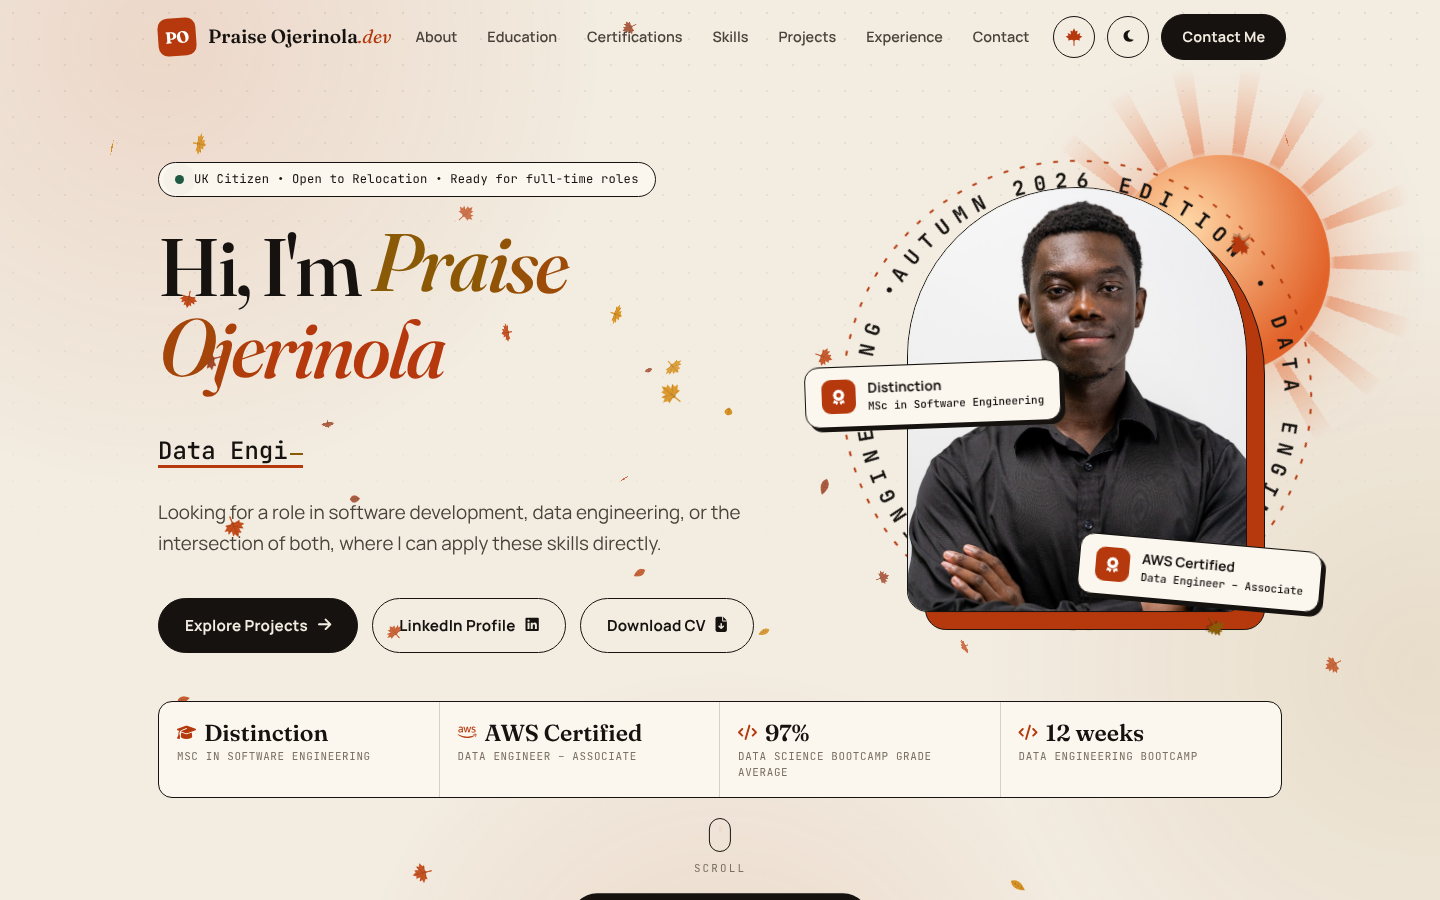
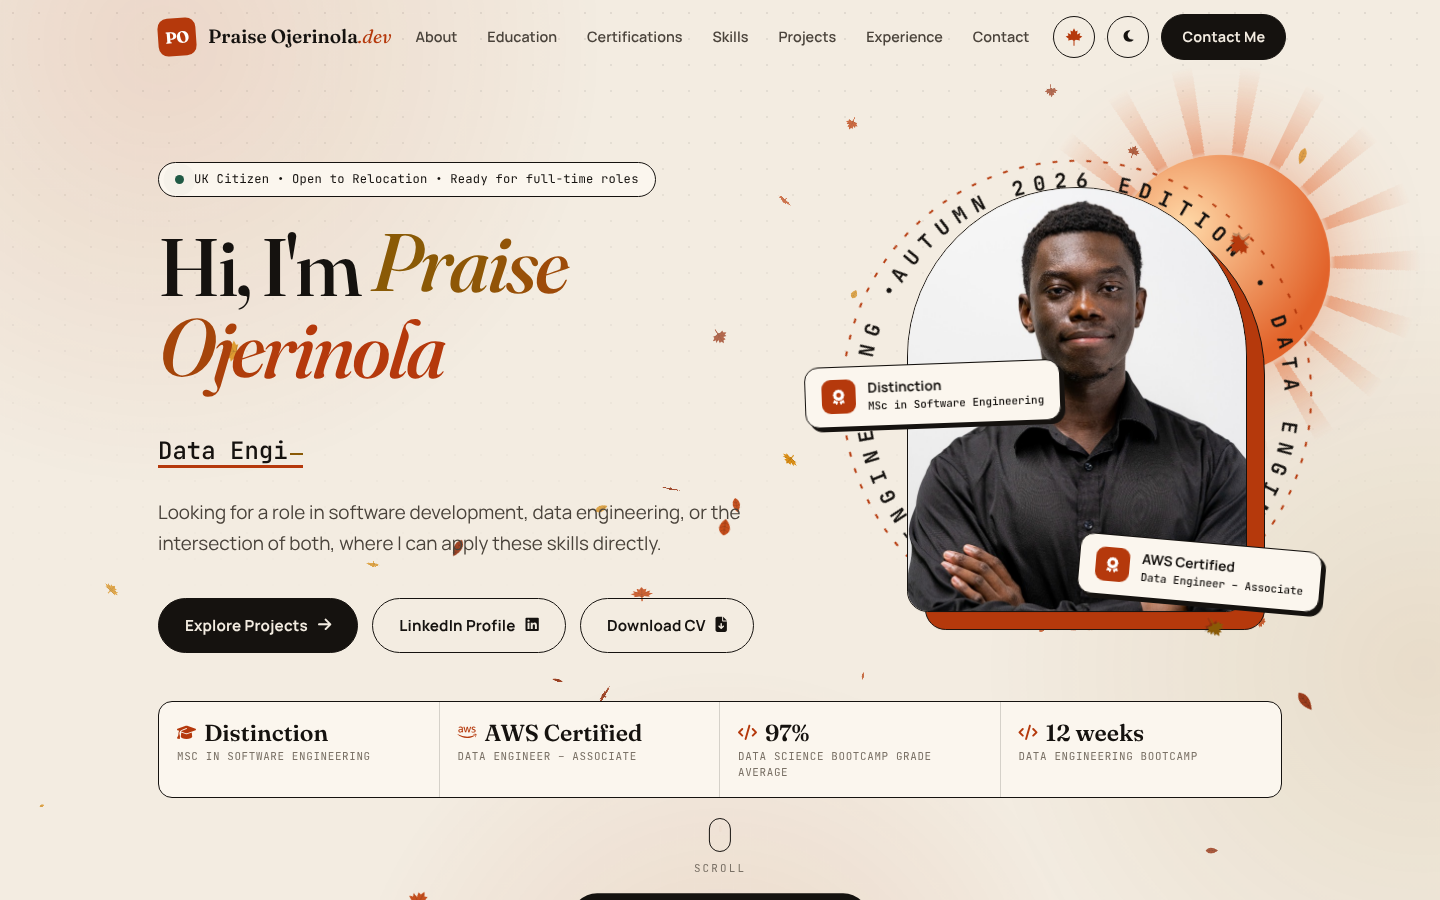
Rework spring, summer and winter to match autumn
Autumn worked because everything came from one colour family and its
leaves were big enough to read. The other seasons mixed unrelated hues
(pink with green, teal with gold), so the shimmer in the name passed
through muddy olive, and their particles were specks on light paper.

- Spring: rose to orchid, whole five-petal cherry blossoms spinning among
  the petals, petals edged so they show on light paper, a blush dawn sun
  with a breathing halo
- Summer: one sunshine-gold family on lemon paper, a blazing sun with fast
  pulsing rays, a sun-gold arch and tape, twinkling four-point sun glints
  among the fireflies. The large hero name uses a brighter gold (3:1, the
  large-text minimum) while small text keeps a 4.5:1 ochre
- Winter: crisper cold paper, a cratered moon, bigger flakes and more
  crystals, with a frost rim so white snow shows on light paper
- Fresh README previews

Claude-Session: https://claude.ai/code/session_01UX7o9tmKRLLsBKuvy1Rqtr

diff --git a/js/season.js b/js/season.js
@@ -172,12 +172,13 @@
         if (!ctx || typeof Path2D === 'undefined') return { setSeason() {}, recolor() {}, motion() {} };
 
         const KIND = { spring: 'petal', summer: 'mote', autumn: 'leaf', winter: 'snow' };
-        const DENSITY = { petal: 16000, mote: 20000, leaf: 26000, snow: 9500 };   // screen pixels per particle
-        const LIMITS = { petal: [14, 66], mote: [12, 54], leaf: [10, 40], snow: [26, 130] };
+        const DENSITY = { petal: 17000, mote: 18000, leaf: 26000, snow: 9000 };   // screen pixels per particle
+        const LIMITS = { petal: [14, 60], mote: [14, 60], leaf: [10, 40], snow: [28, 130] };
         const lowPower = (navigator.connection && navigator.connection.saveData) || (navigator.hardwareConcurrency && navigator.hardwareConcurrency <= 2);
         const finePointer = window.matchMedia('(pointer: fine)').matches;
         const PETAL = new Path2D(PETAL_D);
         const MAPLE = new Path2D(MAPLE_D);
+        const GLINT = new Path2D('M12 1C12.7 9 15 11.3 23 12 15 12.7 12.7 15 12 23 11.3 15 9 12.7 1 12 9 11.3 11.3 9 12 1z');
         const OAK = new Path2D('M12 2.5C17 6.5 17.6 13.5 12 21.5 6.4 13.5 7 6.5 12 2.5z');
 
         let W = 0, H = 0, dpr = 1, kind = 'leaf';
@@ -209,12 +210,21 @@
             const main = [], alt = [];
             colors.forEach((col) => {
                 if (kind === 'petal') {
-                    main.push(sprite(34, (g) => {
-                        g.translate(12, 12); g.scale(2.3, 2.3); g.translate(-12, -7.4);
+                    // single petals, plus whole five-petal blossoms that spin as they fall
+                    const petal = (g) => {
                         const grad = g.createLinearGradient(12, 11.5, 12, 3.3);
-                        grad.addColorStop(0, col); grad.addColorStop(1, rgba('#ffffff', dark() ? 0.85 : 0.6));
+                        grad.addColorStop(0, col); grad.addColorStop(1, rgba('#ffffff', dark() ? 0.85 : 0.65));
                         g.fillStyle = col; g.fill(PETAL);
-                        g.globalAlpha = 0.55; g.fillStyle = grad; g.fill(PETAL);
+                        g.save(); g.globalAlpha = 0.6; g.fillStyle = grad; g.fill(PETAL); g.restore();
+                        if (!dark()) { g.strokeStyle = 'rgba(160, 30, 80, .32)'; g.lineWidth = 0.35; g.stroke(PETAL); }
+                    };
+                    main.push(sprite(36, (g) => { g.translate(12, 12); g.scale(2.3, 2.3); g.translate(-12, -7.4); petal(g); }));
+                    alt.push(sprite(40, (g) => {
+                        g.translate(12, 12); g.scale(1.12, 1.12);
+                        for (let k = 0; k < 5; k++) { g.save(); g.rotate((k * 2 * Math.PI) / 5); g.translate(-12, -12); petal(g); g.restore(); }
+                        g.fillStyle = dark() ? '#ffe08a' : '#e0a21a';
+                        for (let k = 0; k < 5; k++) { const a = (k * 2 * Math.PI) / 5 + 0.6; g.beginPath(); g.arc(Math.sin(a) * 2.6, -Math.cos(a) * 2.6, 0.75, 0, Math.PI * 2); g.fill(); }
+                        g.fillStyle = rgba(cssVar('--p2') || col, 1); g.beginPath(); g.arc(0, 0, 1.5, 0, Math.PI * 2); g.fill();
                     }));
                 } else if (kind === 'leaf') {
                     const veins = (g, pts) => {
@@ -230,26 +240,46 @@
                         veins(g, [[12, 4, 12, 21], [12, 9, 15, 7], [12, 9, 9, 7], [12, 13, 15.6, 11], [12, 13, 8.4, 11], [12, 17, 14.6, 15.4], [12, 17, 9.4, 15.4]]);
                     }));
                 } else if (kind === 'snow') {
-                    main.push(sprite(18, (g) => {
+                    // on light paper white snow needs a cold blue rim to be seen
+                    const frost = dark() ? null : 'rgba(70, 105, 160, .5)';
+                    main.push(sprite(20, (g) => {
                         const r = g.createRadialGradient(12, 12, 0, 12, 12, 12);
-                        r.addColorStop(0, rgba(col, 1)); r.addColorStop(0.4, rgba(col, 0.9)); r.addColorStop(1, rgba(col, 0));
+                        r.addColorStop(0, rgba(col, 1)); r.addColorStop(0.45, rgba(col, 0.95));
+                        if (frost) { r.addColorStop(0.62, 'rgba(110, 140, 190, .55)'); r.addColorStop(1, 'rgba(110, 140, 190, 0)'); }
+                        else r.addColorStop(1, rgba(col, 0));
                         g.fillStyle = r; g.fillRect(0, 0, 24, 24);
                     }));
-                    alt.push(sprite(30, (g) => {
-                        g.strokeStyle = col; g.lineWidth = 1.5; g.lineCap = 'round';
-                        g.translate(12, 12);
-                        for (let k = 0; k < 6; k++) {
-                            g.beginPath(); g.moveTo(0, 0); g.lineTo(0, -10);
-                            g.moveTo(-2.6, -7.6); g.lineTo(0, -5.4); g.lineTo(2.6, -7.6);
-                            g.stroke(); g.rotate(Math.PI / 3);
-                        }
+                    alt.push(sprite(34, (g) => {
+                        const arms = (width, colour) => {
+                            g.save(); g.translate(12, 12); g.strokeStyle = colour; g.lineWidth = width; g.lineCap = 'round'; g.lineJoin = 'round';
+                            for (let k = 0; k < 6; k++) {
+                                g.beginPath(); g.moveTo(0, 0); g.lineTo(0, -10.2);
+                                g.moveTo(-2.8, -8); g.lineTo(0, -5.6); g.lineTo(2.8, -8);
+                                g.moveTo(-1.8, -4.4); g.lineTo(0, -3); g.lineTo(1.8, -4.4);
+                                g.stroke(); g.rotate(Math.PI / 3);
+                            }
+                            g.restore();
+                        };
+                        if (frost) arms(3, frost);
+                        else { g.shadowColor = rgba(col, 0.9); g.shadowBlur = 3; }
+                        arms(1.4, col);
                     }));
                 } else {
-                    main.push(sprite(30, (g) => {
+                    // fireflies and sun motes, plus four-point glints of sunlight that twinkle
+                    const core = dark() ? '#fffbe6' : (cssVar('--p3') || col);
+                    main.push(sprite(32, (g) => {
                         const r = g.createRadialGradient(12, 12, 0, 12, 12, 12);
-                        r.addColorStop(0, rgba(cssVar('--p3') || col, 1)); r.addColorStop(0.22, rgba(col, 0.9));
-                        r.addColorStop(0.5, rgba(col, 0.25)); r.addColorStop(1, rgba(col, 0));
+                        r.addColorStop(0, rgba(core, 1)); r.addColorStop(0.22, rgba(col, dark() ? 0.9 : 1));
+                        r.addColorStop(0.5, rgba(col, dark() ? 0.25 : 0.4)); r.addColorStop(1, rgba(col, 0));
                         g.fillStyle = r; g.fillRect(0, 0, 24, 24);
+                    }));
+                    alt.push(sprite(36, (g) => {
+                        const halo = g.createRadialGradient(12, 12, 0, 12, 12, 9);
+                        halo.addColorStop(0, rgba(col, dark() ? 0.55 : 0.4)); halo.addColorStop(1, rgba(col, 0));
+                        g.fillStyle = halo; g.fillRect(0, 0, 24, 24);
+                        const r = g.createRadialGradient(12, 12, 0, 12, 12, 11);
+                        r.addColorStop(0, dark() ? '#ffffff' : rgba(core, 1)); r.addColorStop(0.35, rgba(col, 1)); r.addColorStop(1, rgba(col, 0.6));
+                        g.fillStyle = r; g.fill(GLINT);
                     }));
                 }
             });
@@ -263,19 +293,22 @@
             p.rot = rnd(0, Math.PI * 2); p.flip = rnd(0, Math.PI * 2); p.seed = rnd(0, 1000);
             p.px = 0; p.py = 0; p.flipSpeed = 0; p.vr = 0; p.tw = 0;
             if (kind === 'petal') {
-                p.size = rnd(12, 22) * (0.45 + z * 0.55); p.vy = rnd(0.35, 0.8) * z; p.vx = rnd(0.1, 0.45) * z;
-                p.vr = rnd(-0.015, 0.015); p.flipSpeed = rnd(0.015, 0.045); p.sway = rnd(8, 22); p.swayF = rnd(0.012, 0.025); p.alpha = 0.5 + z * 0.45;
+                p.alt = Math.random() < 0.22;
+                p.size = (p.alt ? rnd(20, 32) : rnd(14, 26)) * (0.45 + z * 0.55); p.vy = rnd(0.35, 0.8) * z; p.vx = rnd(0.15, 0.5) * z;
+                p.vr = p.alt ? rnd(-0.03, 0.03) : rnd(-0.015, 0.015); p.flipSpeed = p.alt ? rnd(0.008, 0.02) : rnd(0.02, 0.05); p.sway = rnd(8, 22); p.swayF = rnd(0.012, 0.025); p.alpha = 0.5 + z * 0.45;
             } else if (kind === 'leaf') {
                 p.alt = Math.random() < 0.4;
                 p.size = rnd(20, 34) * (0.45 + z * 0.55); p.vy = rnd(0.55, 1.2) * z; p.vx = rnd(-0.2, 0.2);
                 p.vr = rnd(-0.03, 0.03); p.flipSpeed = rnd(0.01, 0.04); p.sway = rnd(14, 34); p.swayF = rnd(0.008, 0.018); p.alpha = 0.55 + z * 0.4;
             } else if (kind === 'snow') {
-                p.alt = z > 0.78 && Math.random() < 0.35;
-                p.size = p.alt ? rnd(12, 20) * z : rnd(3, 8) * z; p.vy = rnd(0.45, 1.05) * z * 1.3; p.vx = 0;
+                p.alt = z > 0.7 && Math.random() < 0.4;
+                p.size = p.alt ? rnd(15, 26) * z : rnd(4, 10) * z; p.vy = rnd(0.45, 1.05) * z * 1.3; p.vx = 0;
                 p.vr = p.alt ? rnd(-0.01, 0.01) : 0; p.sway = rnd(4, 14); p.swayF = rnd(0.006, 0.014); p.alpha = 0.45 + z * 0.55;
             } else {
-                p.size = rnd(8, 22) * z; p.vy = -rnd(0.08, 0.32) * z; p.vx = rnd(-0.12, 0.12);
-                p.sway = rnd(10, 30); p.swayF = rnd(0.004, 0.012); p.alpha = 0.35 + z * 0.55; p.tw = rnd(0.02, 0.06);
+                p.alt = Math.random() < 0.35;
+                p.size = (p.alt ? rnd(16, 30) : rnd(10, 26)) * z; p.vy = -rnd(0.08, 0.32) * z; p.vx = rnd(-0.12, 0.12);
+                p.sway = rnd(10, 30); p.swayF = rnd(0.004, 0.012); p.alpha = 0.45 + z * 0.55; p.tw = rnd(0.02, 0.06);
+                if (p.alt) { p.vr = rnd(-0.006, 0.006); p.vy *= 0.5; p.alpha = 0.75 + z * 0.25; }
             }
             const m = p.size + 30;
             p.x = rnd(0, W);
@@ -324,14 +357,18 @@
                 const pool = p.alt && sprites.alt.length ? sprites.alt : sprites.main;
                 const img = pool[p.si % pool.length];
                 if (!img) continue;
-                let a = p.alpha;
-                if (p.tw) a *= 0.45 + 0.55 * (0.5 + 0.5 * Math.sin(t * p.tw + p.seed));
+                let a = p.alpha, size = p.size;
+                if (p.tw) {
+                    const wave = 0.5 + 0.5 * Math.sin(t * p.tw + p.seed);
+                    if (kind === 'mote' && p.alt) size *= 0.35 + 0.65 * wave * wave;   // glints flare and fade
+                    else a *= 0.45 + 0.55 * wave;
+                }
                 let fy = 1;
                 if (p.flipSpeed) { fy = Math.cos(p.flip); if (Math.abs(fy) < 0.12) fy = fy < 0 ? -0.12 : 0.12; }
-                const c = Math.cos(p.rot) * dpr, s = Math.sin(p.rot) * dpr, half = p.size / 2;
+                const c = Math.cos(p.rot) * dpr, s = Math.sin(p.rot) * dpr, half = size / 2;
                 ctx.setTransform(c, s, -s * fy, c * fy, (sx + p.px) * dpr, (p.y + p.py) * dpr);
                 ctx.globalAlpha = a;
-                ctx.drawImage(img, -half, -half, p.size, p.size);
+                ctx.drawImage(img, -half, -half, size, size);
             }
             ctx.globalAlpha = 1;
         }

diff --git a/css/seasons.css b/css/seasons.css
@@ -11,34 +11,39 @@
    Each block sets the same variables in light and dark, so the dark block (more
    specific) always wins in dark mode. The second selector in each dark rule lets any
    element carry its own season (the picker options and the transition wipe do). */
+/* spring: cherry blossom. Rose to orchid, one pink family, with a blush dawn sun */
 [data-season="spring"] {
-    --paper: #f6efec; --surface: #fdf8f6; --surface-2: #efe3df;
-    --accent: #b3255a; --accent-ink: #ffffff; --accent-2: #3d7a1f;
+    --paper: #f8f0f1; --surface: #fef9f9; --surface-2: #f1e3e6;
+    --accent: #b3255a; --accent-ink: #ffffff; --accent-2: #8a2f9e;
     --accent-soft: rgba(179, 37, 90, 0.1);
-    --orb-a: #ffe3ec; --orb-b: #f28cae; --ray-step: 36deg; --ray-width: 14deg; --ray-opacity: .35;
-    --p1: #f49ab9; --p2: #e9719b; --p3: #fbc6d7;
+    --orb-a: #fff3f7; --orb-b: #f28fb3; --ray-step: 30deg; --ray-width: 13deg; --ray-opacity: .45;
+    --p1: #f4a3bf; --p2: #e9779f; --p3: #f8c4d6;
 }
 [data-theme="dark"][data-season="spring"], [data-theme="dark"] [data-season="spring"] {
-    --paper: #141012; --surface: #1c1619; --surface-2: #271e22;
-    --accent: #ff8fb3; --accent-ink: #1a0f14; --accent-2: #a5dc74;
+    --paper: #151013; --surface: #1d1619; --surface-2: #281e23;
+    --accent: #ff8fb3; --accent-ink: #1a0f14; --accent-2: #d9a6ff;
     --accent-soft: rgba(255, 143, 179, 0.13);
-    --orb-a: #ffd2e0; --orb-b: #c2477a; --ray-step: 36deg; --ray-width: 14deg; --ray-opacity: .3;
+    --orb-a: #ffe0ea; --orb-b: #d4558b; --ray-step: 30deg; --ray-width: 13deg; --ray-opacity: .4;
     --p1: #ffb3cb; --p2: #f78fb0; --p3: #ffd9e5;
 }
 
+/* summer: full sun. Gold to amber on lemon paper, a blazing sun and glinting light */
 [data-season="summer"] {
-    --paper: #f5f0e1; --surface: #fcf9ef; --surface-2: #ece4cc;
-    --accent: #0b6b74; --accent-ink: #ffffff; --accent-2: #a94e05;
-    --accent-soft: rgba(11, 107, 116, 0.1);
-    --orb-a: #fff2b8; --orb-b: #f5a300; --ray-step: 15deg; --ray-width: 5deg; --ray-opacity: .75;
-    --p1: #f2b705; --p2: #f59e0b; --p3: #ffd65a;
+    --paper: #fbf5e1; --surface: #fffbee; --surface-2: #f3e8c6;
+    --accent: #865c00; --accent-ink: #ffffff; --accent-2: #b24a00;
+    --accent-soft: rgba(214, 150, 0, 0.14);
+    --orb-a: #fffbe0; --orb-b: #ffb703; --ray-step: 12deg; --ray-width: 4.5deg; --ray-opacity: .85;
+    --p1: #f2a900; --p2: #ffbf1f; --p3: #e07b00;
+    /* the hero name is large text (3:1 needed), so it can shine brighter than small ochre text */
+    --display: #ba7a00; --display-2: #c26a00;
 }
 [data-theme="dark"][data-season="summer"], [data-theme="dark"] [data-season="summer"] {
-    --paper: #0f1213; --surface: #161b1c; --surface-2: #1f2627;
-    --accent: #3fd6c6; --accent-ink: #0a1414; --accent-2: #ffc23d;
-    --accent-soft: rgba(63, 214, 198, 0.12);
-    --orb-a: #fff1b0; --orb-b: #ff9d2e; --ray-step: 15deg; --ray-width: 5deg; --ray-opacity: .6;
+    --paper: #14110a; --surface: #1c1810; --surface-2: #272116;
+    --accent: #ffc83d; --accent-ink: #17120a; --accent-2: #ffe387;
+    --accent-soft: rgba(255, 200, 61, 0.12);
+    --orb-a: #fffbe0; --orb-b: #ffaa00; --ray-step: 12deg; --ray-width: 4.5deg; --ray-opacity: .75;
     --p1: #ffd45a; --p2: #ffb02e; --p3: #fff1a8;
+    --display: #ffc83d; --display-2: #ffe387;
 }
 
 [data-season="autumn"] {
@@ -56,18 +61,19 @@
     --p1: #ff7a45; --p2: #ffb648; --p3: #d9481f;
 }
 
+/* winter: frost. Blue to violet on cold paper, a cratered moon and real snow */
 [data-season="winter"] {
-    --paper: #edf1f5; --surface: #f8fafc; --surface-2: #e0e7ef;
+    --paper: #eef2f7; --surface: #f9fbfd; --surface-2: #e1e8f1;
     --accent: #1f4fbf; --accent-ink: #ffffff; --accent-2: #5a43b5;
     --accent-soft: rgba(31, 79, 191, 0.09);
-    --orb-a: #ffffff; --orb-b: #b9cbe4; --ray-step: 10deg; --ray-width: 1.5deg; --ray-opacity: .5;
-    --p1: #9fb6d6; --p2: #c4d3e8; --p3: #7f9cc6;
+    --orb-a: #ffffff; --orb-b: #aec3e3; --ray-step: 7.5deg; --ray-width: 1.2deg; --ray-opacity: .55;
+    --p1: #ffffff; --p2: #e8f0fb; --p3: #cddcf0;
 }
 [data-theme="dark"][data-season="winter"], [data-theme="dark"] [data-season="winter"] {
-    --paper: #0d1117; --surface: #141a22; --surface-2: #1c2430;
+    --paper: #0c1119; --surface: #131a24; --surface-2: #1b2430;
     --accent: #8cc4ff; --accent-ink: #0b1220; --accent-2: #c3b3ff;
     --accent-soft: rgba(140, 196, 255, 0.12);
-    --orb-a: #f4f8ff; --orb-b: #6f8bb8; --ray-step: 10deg; --ray-width: 1.5deg; --ray-opacity: .35;
+    --orb-a: #f4f8ff; --orb-b: #7d97c2; --ray-step: 7.5deg; --ray-width: 1.2deg; --ray-opacity: .4;
     --p1: #ffffff; --p2: #dbe8ff; --p3: #b9d2f5;
 }
 
@@ -116,6 +122,28 @@
 }
 @keyframes orb-float { 50% { transform: translate(-6%, 8%) scale(1.04); } }
 
+/* each season's sun or moon moves in its own way */
+[data-season="summer"] .season-orb { box-shadow: 0 0 120px 10px color-mix(in srgb, var(--orb-b) 55%, transparent); }
+[data-season="summer"] .season-orb::before { inset: -55%; animation: spin 26s linear infinite, ray-pulse 3.6s ease-in-out infinite; }
+@keyframes ray-pulse { 50% { scale: 1.08; opacity: calc(var(--ray-opacity) * .7); } }
+[data-season="spring"] .season-orb::before { animation-duration: 70s; }
+[data-season="spring"] .season-orb::after {   /* a halo of blossom light */
+    content: ""; position: absolute; inset: -14%; border-radius: 50%;
+    background: radial-gradient(circle, transparent 54%, color-mix(in srgb, var(--orb-b) 30%, transparent) 62%, transparent 72%);
+    animation: halo 6s ease-in-out infinite;
+}
+@keyframes halo { 50% { transform: scale(1.12); opacity: .5; } }
+[data-season="winter"] .season-orb { animation-duration: 14s; box-shadow: 0 0 70px color-mix(in srgb, var(--orb-b) 60%, transparent), inset -14px -10px 30px color-mix(in srgb, var(--orb-b) 70%, transparent); }
+[data-season="winter"] .season-orb::after {   /* craters */
+    content: ""; position: absolute; inset: 0; border-radius: 50%; opacity: .55;
+    background:
+        radial-gradient(circle at 30% 38%, color-mix(in srgb, var(--orb-b) 80%, #000 6%) 0 7%, transparent 8%),
+        radial-gradient(circle at 58% 62%, color-mix(in srgb, var(--orb-b) 80%, #000 6%) 0 10%, transparent 11%),
+        radial-gradient(circle at 66% 30%, color-mix(in srgb, var(--orb-b) 80%, #000 6%) 0 5%, transparent 6%),
+        radial-gradient(circle at 38% 74%, color-mix(in srgb, var(--orb-b) 80%, #000 6%) 0 4%, transparent 5%);
+}
+[data-season="winter"] .season-orb::before { animation-duration: 90s; }
+
 .season-ring { position: absolute; inset: 0; width: 100%; height: 100%; overflow: visible; animation: spin 38s linear infinite; }
 .season-ring text { font-family: var(--font-mono); font-size: 8.4px; font-weight: 700; letter-spacing: .12em; fill: var(--ink); text-transform: uppercase; }
 .season-ring .ring-dash { fill: none; stroke: var(--accent); stroke-width: .8; stroke-dasharray: 2 5; }
@@ -144,7 +172,9 @@
     animation-delay: calc(var(--i) * 34ms + 120ms), calc(var(--i) * 110ms + 1.4s);
 }
 @keyframes char-in { from { opacity: 0; transform: translateY(.55em) rotate(10deg) scale(.86); } }
-@keyframes char-wave { 0%, 40%, 100% { color: var(--accent); translate: 0 0; } 20% { color: var(--accent-2); translate: 0 -.06em; } }
+@keyframes char-wave { 0%, 40%, 100% { color: var(--display, var(--accent)); translate: 0 0; } 20% { color: var(--display-2, var(--accent-2)); translate: 0 -.06em; } }
+#profile-name { color: var(--display, var(--accent)); }
+[data-season="summer"] .avatar-wrapper::before { background: var(--orb-b); }
 
 .typing-text { border-bottom-color: var(--accent); }
 .typing-text::after { content: ""; display: inline-block; width: .55em; height: 2px; margin-left: 2px; background: var(--accent-2); vertical-align: .15em; animation: caret 1s steps(1) infinite; }
@@ -172,6 +202,8 @@
 .tape-back .tape-item svg { color: var(--accent-ink); }
 .tape-front .tape-item:nth-child(even) { font-style: italic; color: color-mix(in srgb, var(--paper) 75%, var(--accent)); }
 @keyframes tape-run { to { transform: translateX(-50%); } }
+[data-season="summer"] .tape-back, [data-season="summer"] .tape-back .tape-item svg { background-color: var(--orb-b); color: #1f1606; }
+[data-season="summer"] .tape-back .tape-item svg { background-color: transparent; }
 
 /* ---- 6. Season picker in the navigation ----------------------------------- */
 .season-picker { position: relative; }
@@ -216,7 +248,7 @@
 
 /* ---- 8. Calm versions ----------------------------------------------------- */
 @media (prefers-reduced-motion: reduce) {
-    .season-backdrop span, .season-orb, .season-orb::before, .season-ring, .season-orbit, .orbit-glyph,
+    .season-backdrop span, .season-orb, .season-orb::before, .season-orb::after, .season-ring, .season-orbit, .orbit-glyph,
     .avatar-wrapper, .floating-badge, .tag-glyph, .tape-track, .typing-text::after { animation: none !important; }
     .tape-track { transform: none; }
 }

diff --git a/README.md b/README.md
@@ -4,7 +4,7 @@
 [![AWS Certified Data Engineer](https://img.shields.io/badge/AWS-Certified%20Data%20Engineer%20Associate-FF9900?style=for-the-badge&logo=amazon-aws&logoColor=white)](https://www.credly.com/badges/53369df2-187c-4b08-9ed8-18911445242d/public_url)
 [![License: MIT](https://img.shields.io/badge/License-MIT-15120F.svg?style=for-the-badge)](LICENSE)
 
-A personal portfolio built with plain HTML, CSS and JavaScript: no framework and no build step. It is a motion-graphics page that **changes with the seasons**: spring blossom, summer sun and fireflies, autumn leaves and winter snow, each with its own palette in light and dark. Content reveals as you scroll, and the layout is tuned for screens from a 320 px phone up to a 4K monitor.
+A personal portfolio built with plain HTML, CSS and JavaScript: no framework and no build step. It is a motion-graphics page that **changes with the seasons**: cherry blossom in spring, blazing sun and glinting light in summer, falling leaves in autumn and snow under a cratered moon in winter. Each season keeps to one colour family, in light and dark. Content reveals as you scroll, and the layout is tuned for screens from a 320 px phone up to a 4K monitor.
 
 **Live:** <https://praiseojay.github.io/Portfolio_website/>
 
@@ -18,7 +18,7 @@ A personal portfolio built with plain HTML, CSS and JavaScript: no framework and
 ### Hero (autumn, light)
 ![Hero preview](assets/images/screenshot_hero.png)
 
-### Hero (winter, dark)
+### Hero (spring, dark)
 ![Dark theme preview](assets/images/screenshot_dark.png)
 
 ### Projects and case studies
@@ -41,7 +41,7 @@ A personal portfolio built with plain HTML, CSS and JavaScript: no framework and
 
 ## ✨ Features
 
-- **Seasonal motion graphics:** the page picks the season from today's date, in the visitor's own hemisphere (worked out from their time zone, so Sydney gets summer in December). Each season brings its own palette, a particle canvas (tumbling blossom petals, rising fireflies, gusting maple and oak leaves, snow in three depths), drifting colour fields, a sun or moon with turning rays behind the portrait, rotating ring type, orbiting glyphs and crossed marquee tapes. Scrolling stirs up the wind and gives the particles depth, and a mouse pushes them aside. A picker in the navigation previews any season with a colour wipe, and `?season=winter` in the link does the same (`js/season.js`, `css/seasons.css`).
+- **Seasonal motion graphics:** the page picks the season from today's date, in the visitor's own hemisphere (worked out from their time zone, so Sydney gets summer in December). Each season keeps to one colour family (rose to orchid, sun gold to amber, rust to amber, blue to violet) and brings a particle canvas (petals and whole cherry blossoms, rising fireflies and twinkling sun glints, gusting maple and oak leaves, snow and crystals in three depths), drifting colour fields, a sun or moon with turning rays behind the portrait, rotating ring type, orbiting glyphs and crossed marquee tapes. Scrolling stirs up the wind and gives the particles depth, and a mouse pushes them aside. A picker in the navigation previews any season with a colour wipe, and `?season=winter` in the link does the same (`js/season.js`, `css/seasons.css`).
 - **Scroll-triggered page:** sections and cards reveal as they enter the screen, the hero drifts as you scroll, stats count up, the experience line draws itself, and a side rail shows which section you are in. Everything simply shows, with no motion, for visitors who prefer reduced motion (`js/scroll.js`).
 - **Light and dark themes:** follows the visitor's system setting on first visit and remembers their choice. The theme is set before the page paints, so there is no flash.
 - **Mobile-friendly, with breakpoints for every screen:** checked with no sideways scrolling at every width from 320 px to 2560 px, including phones on their side. Breakpoints:
